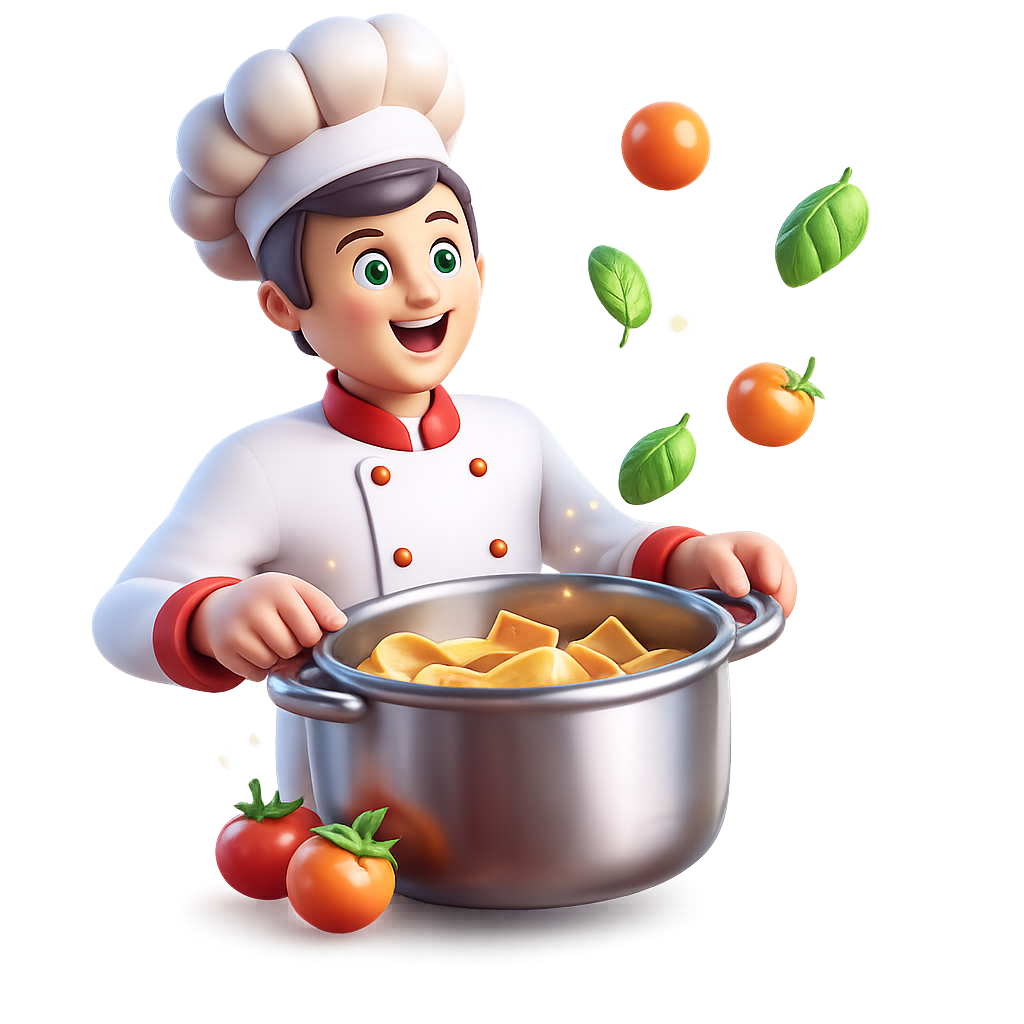
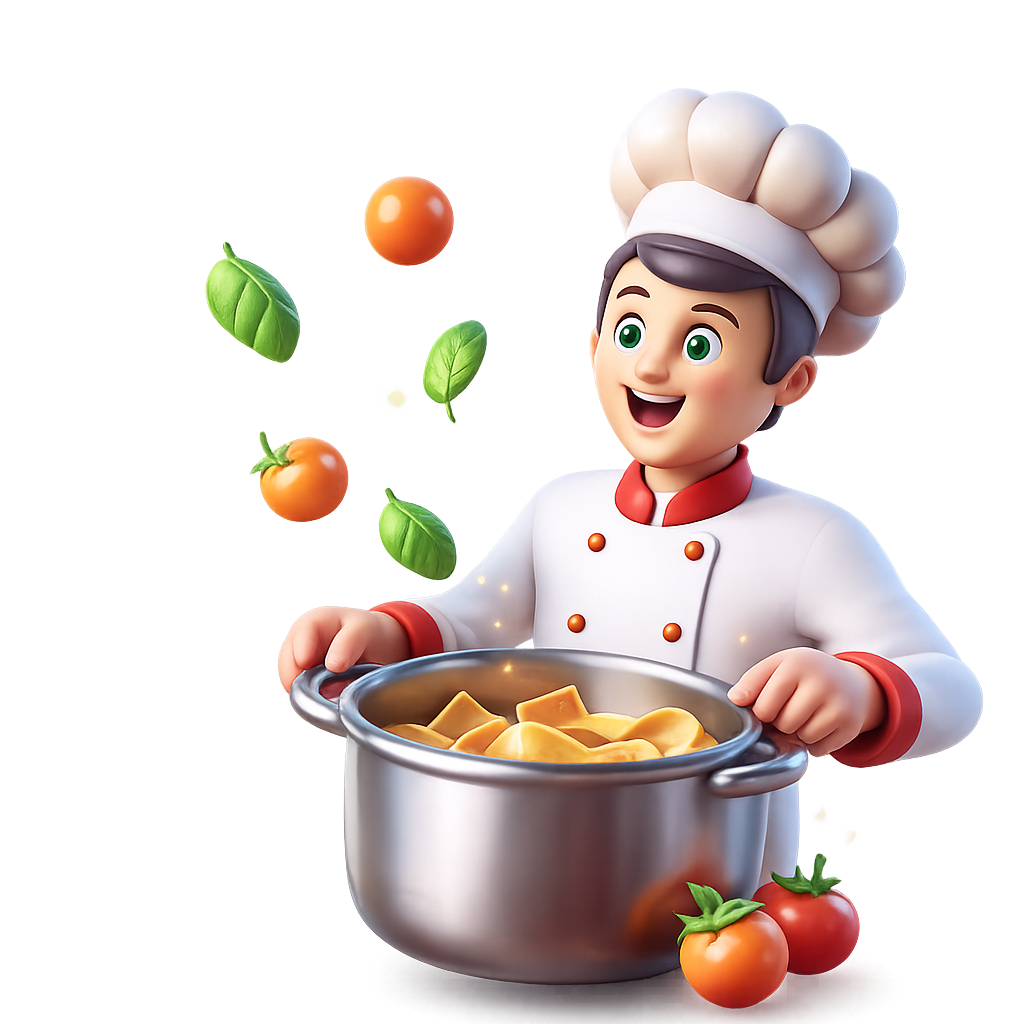
fix: cq param in HeroBlock, recipe_name on order create, sort cook_queue, cleanup onboarding comments

diff --git a/frontend/app/pages/onboarding.vue b/frontend/app/pages/onboarding.vue
@@ -5,19 +5,7 @@
       <img src="/images/onboarding/chef-cook.png" alt="Chef" class="w-full h-full object-contain" />
     </div>
 
-    <!-- Content Zone (Flex Row) -->
-<!--    <div class="flex-1 px-5 flex items-start justify-between gap-4 min-h-0">
-      <div>
-        <h1 class="font-bold text-[36px] text-white leading-[1.1]">
-          Quick<br />& Easy<br />Recipes! 🔥
-        </h1>
-        <p class="text-[14px] text-white/85 font-normal mt-4 max-w-[200px]">
-          Quick and easy recipes save time, taste great, and bring smiles.
-        </p>
-      </div>
-      <img src="/images/onboarding/sauce_frame.png" alt="Sauce" class="w-[140px] object-contain self-start" />
-    </div>-->
-    <!-- Content Zone (Flex Row) -->
+
     <!-- Logo -->
     <div class="px-5 flex justify-start">
       <img

diff --git a/frontend/app/composables/useParticipants.ts b/frontend/app/composables/useParticipants.ts
@@ -106,10 +106,17 @@ export function useParticipants(cookQueueId: Ref<string | null>) {
       return
     }
 
+    let recipeName: string | null = null
+    try {
+      const entry = await request<{ dish_name: string | null }>('get', `/items/cook_queue/${cookQueueId.value}?fields=dish_name`)
+      recipeName = entry?.dish_name ?? null
+    } catch {}
+
     await request('post', '/items/orders', {
       user: user.value?.id,
       cook_queue: cookQueueId.value,
       status: 'confirmed',
+      recipe_name: recipeName,
     })
     hasJoined.value = true
     await fetch()

diff --git a/frontend/app/components/HeroBlock.vue b/frontend/app/components/HeroBlock.vue
@@ -216,7 +216,9 @@ const dishImage = computed(() => {
 /** Navigate to recipe detail if a recipe exists, otherwise emit view-dish. */
 function onDishClick() {
   if (props.recipeId) {
-    router.push(`/recipe/${props.recipeId}`)
+    const cq = props.cook?.queueId
+    const url = cq ? `/recipe/${props.recipeId}?cq=${cq}` : `/recipe/${props.recipeId}`
+    router.push(url)
   } else {
     emit('view-dish')
   }

diff --git a/frontend/app/pages/cook.vue b/frontend/app/pages/cook.vue
@@ -709,7 +709,7 @@ async function fetchTodayEntry() {
   loading.value = true
   try {
     const items = await request<CookQueueEntry[]>('get',
-      `/items/cook_queue?filter[date][_eq]=${pageDateStr.value}&filter[cook][_eq]=${user.value?.id}&filter[status][_nin]=cancelled&limit=1&fields=*,cook.id,cook.first_name,cook.last_name`
+      `/items/cook_queue?filter[date][_eq]=${pageDateStr.value}&filter[cook][_eq]=${user.value?.id}&filter[status][_nin]=cancelled&sort=-date_created&limit=1&fields=*,cook.id,cook.first_name,cook.last_name`
     )
     const existing = items[0]
     if (existing) {

diff --git a/docs-site/screens/cook-panel.md b/docs-site/screens/cook-panel.md
@@ -11,7 +11,6 @@ The cook panel has 6 states, each showing different controls:
 ### `assign`
 - "I'm cooking today!" button
 - Shows when no cook is assigned for today
-<img src="/screenshots/cook-assign.png" alt="Cook panel — assign state" class="screenshot" />
 <img src="/screenshots/cook-assign_2.png" alt="Cook panel — assign state (alternate)" class="screenshot" />
 
 ### `dish`

diff --git a/docs/progress.md b/docs/progress.md
@@ -251,4 +251,5 @@
 - `b05f707` — docs: add JSDoc annotations across all frontend files
 - `2e7803e` — docs(docs-site): add VitePress documentation site with screenshots
 - `17479c3` — docs: update roadmap checkboxes — mark completed items (duty, profile balance, recipe steps, shopping share)
+- `5d3cc65` — feat(onboarding): splash screen as entry point with 2.5s auto-redirect
 